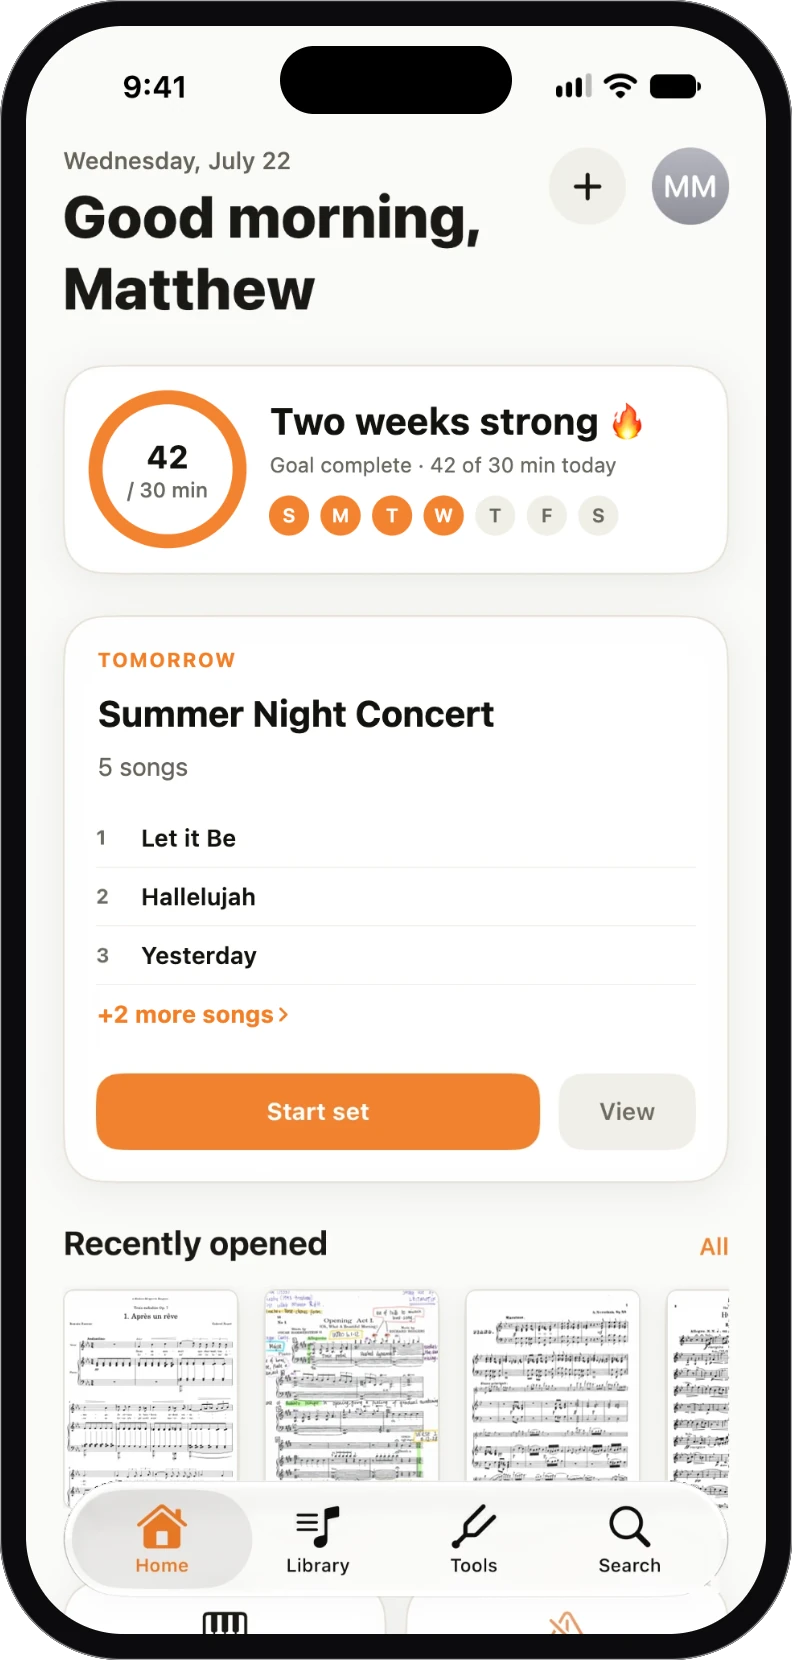
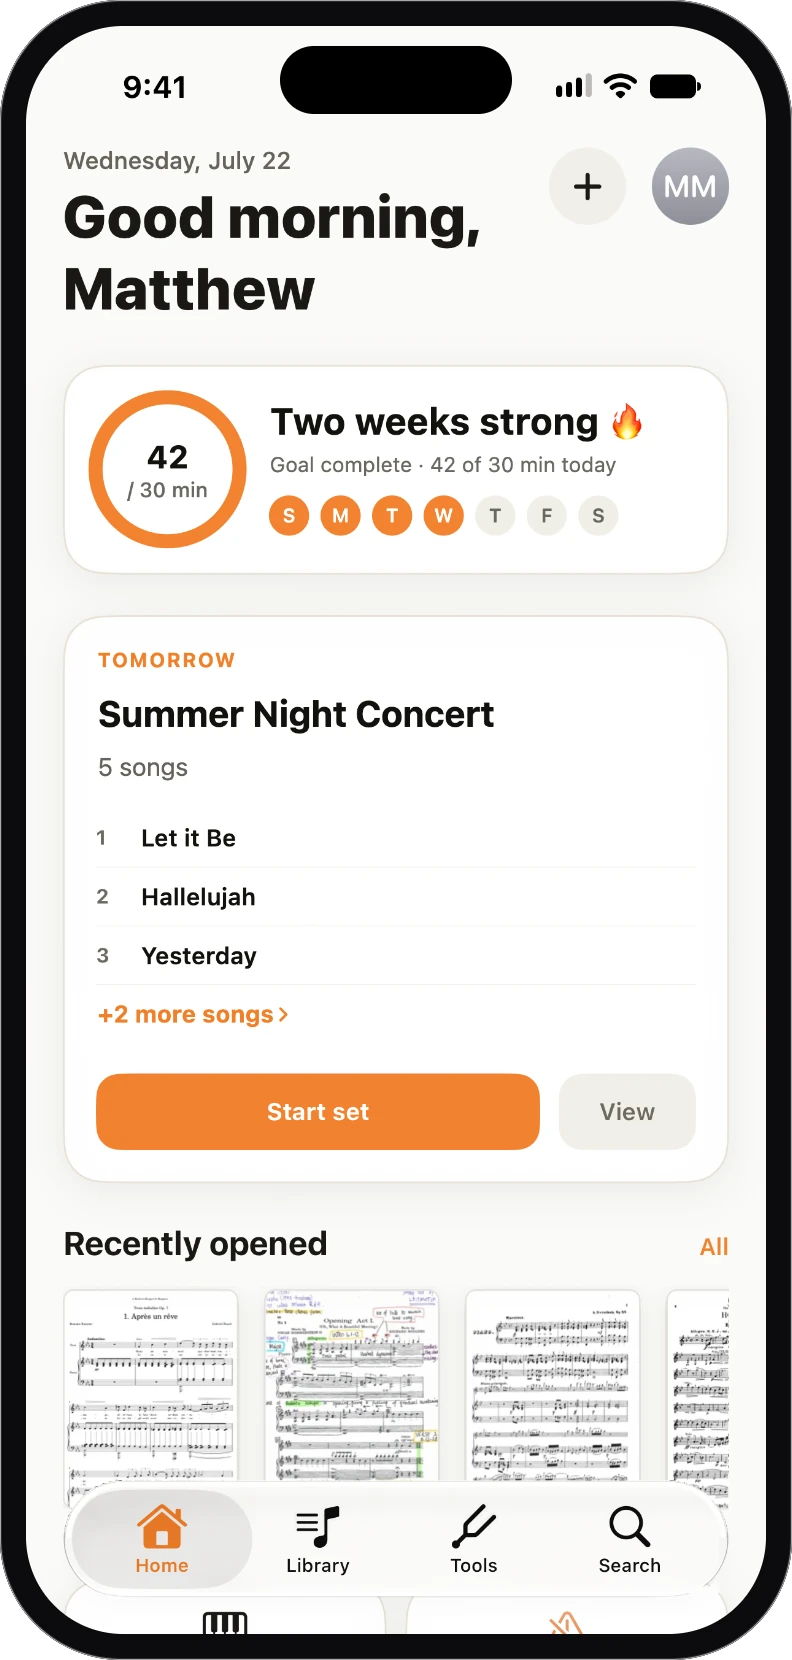
Home screens at full resolution
The hero's iPad screen and the iPad / iPhone device images are now rendered
from the owner's full-resolution screenshots (iPad 1668 x 2420, iPhone
1206 x 2622) instead of the downscaled copies: the same retouched picture,
sharper. The hero keeps measuring in its 1379 x 2000 space.

diff --git a/for/students.html b/for/students.html
@@ -213,7 +213,7 @@
       <p class="lede">Practice with a tuner, metronome and daily streak, then perform from the same page.</p>
       <div class="cta-row"><a class="badge-link" href="https://apps.apple.com/app/id1611824311"><picture><img src="https://toolbox.marketingtools.apple.com/api/badges/download-on-the-app-store/black/en-us?size=250x83" alt="Download on the App Store" width="144" height="48"></picture></a></div>
     </div>
-    <div class="lp-visual"><img class="cutout" src="/assets/home-iphone.webp?v=4" alt="The Music Folder home screen on iPhone, with the practice streak and the next set list" width="396" height="830"></div>
+    <div class="lp-visual"><img class="cutout" src="/assets/home-iphone.webp?v=5" alt="The Music Folder home screen on iPhone, with the practice streak and the next set list" width="396" height="830"></div>
   </div>
 </section>
 
@@ -228,7 +228,7 @@
   <div class="wrap rows">
     <div class="row-feature">
       <div class="rf-text"><h2 class="heading-sm">A streak that keeps you <em>coming back.</em></h2><p>Set a daily goal and Music Folder counts your practice minutes. Your streak waits on the home screen every time you open the app.</p><ul class="rf-points"><li><svg viewBox="0 0 16 16" fill="none" stroke="currentColor" stroke-width="1.9" stroke-linecap="round" stroke-linejoin="round" aria-hidden="true"><path d="M3 8.5l3 3 7-7"/></svg><span>A daily goal in minutes</span></li><li><svg viewBox="0 0 16 16" fill="none" stroke="currentColor" stroke-width="1.9" stroke-linecap="round" stroke-linejoin="round" aria-hidden="true"><path d="M3 8.5l3 3 7-7"/></svg><span>Your streak on the home screen</span></li><li><svg viewBox="0 0 16 16" fill="none" stroke="currentColor" stroke-width="1.9" stroke-linecap="round" stroke-linejoin="round" aria-hidden="true"><path d="M3 8.5l3 3 7-7"/></svg><span>Every piece one tap away</span></li></ul></div>
-      <div class="rf-visual"><img class="cutout" src="/assets/home-ipad.webp?v=5" alt="The Music Folder home screen on iPad: a practice streak, quick tools, folders and recently opened scores" width="600" height="851" loading="lazy" style="width:min(300px,80%)"></div>
+      <div class="rf-visual"><img class="cutout" src="/assets/home-ipad.webp?v=6" alt="The Music Folder home screen on iPad: a practice streak, quick tools, folders and recently opened scores" width="600" height="851" loading="lazy" style="width:min(300px,80%)"></div>
     </div><div class="row-feature flip">
       <div class="rf-text"><h2 class="heading-sm">Mark it up <em>your way.</em></h2><p>Pencil in fingerings, breaths, cues and lesson notes with Apple Pencil or your finger. Your markings stay on your score and sync across your devices.</p><ul class="rf-points"><li><svg viewBox="0 0 16 16" fill="none" stroke="currentColor" stroke-width="1.9" stroke-linecap="round" stroke-linejoin="round" aria-hidden="true"><path d="M3 8.5l3 3 7-7"/></svg><span>Pens, highlighters and text in several colors</span></li><li><svg viewBox="0 0 16 16" fill="none" stroke="currentColor" stroke-width="1.9" stroke-linecap="round" stroke-linejoin="round" aria-hidden="true"><path d="M3 8.5l3 3 7-7"/></svg><span>Song notes for what to work on next</span></li><li><svg viewBox="0 0 16 16" fill="none" stroke="currentColor" stroke-width="1.9" stroke-linecap="round" stroke-linejoin="round" aria-hidden="true"><path d="M3 8.5l3 3 7-7"/></svg><span>Record yourself and listen back</span></li></ul></div>
       <div class="rf-visual"><div class="device tablet fit"><div class="screen shot"><img src="/assets/annotate-ipad.jpg?v=2" alt="A score in Music Folder on iPad, marked up with handwritten notes and highlights in several colors, with the pen palette open" width="900" height="1305" loading="lazy"></div></div></div>

diff --git a/index.html b/index.html
@@ -183,7 +183,7 @@
             <!-- what the screen shows; it fades up from black as the iPad wakes (not hidden
                  under a dark layer, whose edge would let a hairline of it show through) -->
             <div class="screen-content" id="screenContent">
-              <img src="assets/hero-ipad-home.webp?v=3" alt="" width="1379" height="2000">
+              <img src="assets/hero-ipad-home.webp?v=4" alt="" width="1668" height="2420">
               <!-- each slot stays blank until its folder or score lands in it -->
             </div>
             <div class="ipad-off" id="ipadOff"></div>
@@ -218,7 +218,7 @@
     <div class="ipad-stage" aria-hidden="true">
       <div class="ipad stage-ipad" id="stageIpad">
         <div class="ipad-screen" id="stageScreen">
-          <img src="assets/hero-ipad-home.webp?v=3" alt="" width="1379" height="2000">
+          <img src="assets/hero-ipad-home.webp?v=4" alt="" width="1668" height="2420">
         </div>
         <div class="ipad-tools" id="stageTools"></div>
       </div>
@@ -407,8 +407,8 @@
   <div class="wrap devices-grid">
     <div class="devices-pair reveal">
       <img class="dp-mac" src="assets/home-mac.webp?v=4" alt="Music Folder on a Mac: the home screen with the sidebar of folders and set lists, the next set list, practice goal, tools and recently opened scores" width="800" height="664" loading="lazy">
-      <img class="dp-ipad" src="assets/home-ipad.webp?v=5" alt="The Music Folder home screen on iPad: tomorrow's concert set list, a practice streak, quick tools, folders and recently opened scores" width="600" height="851" loading="lazy">
-      <img class="dp-iphone" src="assets/home-iphone.webp?v=4" alt="The same home screen on iPhone, with the practice streak and tomorrow's set list" width="396" height="830" loading="lazy">
+      <img class="dp-ipad" src="assets/home-ipad.webp?v=6" alt="The Music Folder home screen on iPad: tomorrow's concert set list, a practice streak, quick tools, folders and recently opened scores" width="600" height="851" loading="lazy">
+      <img class="dp-iphone" src="assets/home-iphone.webp?v=5" alt="The same home screen on iPhone, with the practice streak and tomorrow's set list" width="396" height="830" loading="lazy">
     </div>
     <div class="reveal">
       <h2 class="heading-sm">The same library on every device you own.</h2>
@@ -576,6 +576,8 @@
   // Two weeks strong, Worship Team); high enough on the page that the Recently opened
   // row stays clear of the pocket
   const IPAD = { x: 58, y: 20, w: 340, h: 481, bezel: 14, tilt: -1.2 };
+  // positions on it are measured in a 1379 × 2000 space (the image itself is the
+  // full-resolution 1668 × 2420 screenshot, the same picture; CSS sizes it to the screen)
   const SHOT_W = 1379, SHOT_H = 2000;
   const K = (IPAD.w - 2 * IPAD.bezel) / SHOT_W;
   // a point on the screenshot → rig coordinates (the right-hand page)

diff --git a/README.md b/README.md
@@ -29,7 +29,7 @@ When `assets/site.css` changes, bump `site.css?v=N` on every page so returning v
 | 0.79 – 0.99 | the four tool tiles lift one by one with live hints (piano keys, pendulum, drone bars, tuner needle) |
 | 0.90 – 0.97 | "The last folder you'll ever need." fades in |
 
-The folder is laid out at a fixed 450×600 (rig coordinates) and scaled as a whole. The iPad screen is the owner's real 11-inch iPad Home screenshot (October 2026 layout, + button top right), `assets/hero-ipad-home.webp` (1379×2000), retouched to the site's content: a clean 9:41, the "Summer Night Concert" card for tomorrow, the "Two weeks strong" practice card, a generic "Worship Team" title over the church's Planning Center folder, and the folders and scores the items fly into (the retouch is reproducible: `screens/` in the onboarding-video workspace, `~/Documents/Me/Music_Folder/Onboarding-Video-Preview`). Positions on it are in screenshot pixels (`folderSlot`, `scoreSlot`, `setlistSlot`, `TOOLS`, `OVERLAYS`) and scaled by `K`. Two parts are rebuilt crisp in HTML over the screenshot because they animate: the practice card (its ring fills and the days tick in) and the tool tiles (built at their lifted size so they stay sharp). The printed set list (`.mf-setlist`) is laid out as the card scaled to its 280 px width, so it lands line for line. If the screenshot is ever replaced, re-measure those coordinates.
+The folder is laid out at a fixed 450×600 (rig coordinates) and scaled as a whole. The iPad screen is the owner's real 11-inch iPad Home screenshot (October 2026 layout, + button top right), `assets/hero-ipad-home.webp` (1668×2420; positions are measured in a 1379×2000 space, `SHOT_W`/`SHOT_H`), retouched to the site's content: a clean 9:41, the "Summer Night Concert" card for tomorrow, the "Two weeks strong" practice card, a generic "Worship Team" title over the church's Planning Center folder, and the folders and scores the items fly into (the retouch is reproducible: `screens/` in the onboarding-video workspace, `~/Documents/Me/Music_Folder/Onboarding-Video-Preview`). Positions on it are in screenshot pixels (`folderSlot`, `scoreSlot`, `setlistSlot`, `TOOLS`, `OVERLAYS`) and scaled by `K`. Two parts are rebuilt crisp in HTML over the screenshot because they animate: the practice card (its ring fills and the days tick in) and the tool tiles (built at their lifted size so they stay sharp). The printed set list (`.mf-setlist`) is laid out as the card scaled to its 280 px width, so it lands line for line. If the screenshot is ever replaced, re-measure those coordinates.
 
 With `prefers-reduced-motion`, the hero is static.
 
